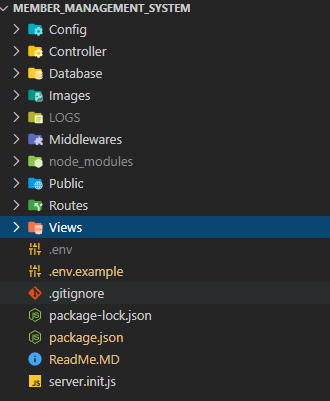
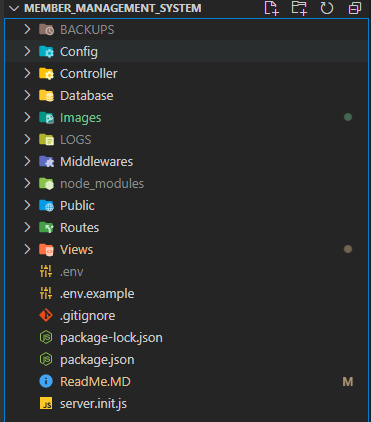
Updated Readme

Changed region(s): [[0.0, 0.0, 1.0, 1.0], [0.7879, 0.0, 0.9091, 0.0599], [0.697, 0.0, 0.7576, 0.0599]]

diff --git a/ReadMe.MD b/ReadMe.MD
@@ -224,6 +224,7 @@ Lets follow the clients approach to get the resources.
 1. Every Execuated Query Returns 2 response. i.e `Result or error` Result are manupulated as per requirement where as errors are logged on `Error.log` file using [`nodefslogger` module](https://www.npmjs.com/package/nodefslogger) which is also set as dependency on `Http.js`.
 
 These were the basic workflow how project works. All the Logs are maintained under [`LOGS`] logs directory which is generated when server needs to maintain log.
+And all the [database backups](#Database-Backup) generated automatically and manually are stored under [`BACKUPS`] directory.  
 
 ## __Some Extra Features__
 There are some extra fatures which will only be visible on certain circumstances.
@@ -249,6 +250,69 @@ __Result__
 1. If you want change root log directory then set `LOG_DIR = LOGS` flag to any directory name you desire.
 1. If you want to change pagination limit then simply change `SELECT_LIMIT = 10` flag value to amount of data you want to fetch while using pagination.
 
-## __Todo__
-1. Create Techinical and User Documentation
-1. Add Monitoring functionality as well
+## __Setting Email__
+You can set Mail Server easily with minimal configuration
+You can observe this block on your `.env` file if you followed [__Setup__](#Setup) properly.
+```
+# ------------------------------
+# Node Mailer Configuration Starts
+# ------------------------------
+    MAILER_HOST = smtp.mailtrap.io
+    MAILER_PORT = 2525
+    MAILER_USER = 553582324dac8f
+    MAILER_PASSWORD = b77dfe9eca847f
+    DBA_EMAILS = "dibeshrsubedi@gmail.com"
+# Node Mailer Configuration Starts
+```
+So, 
+- `MAILER_HOST` Defines the host used for mail service.
+- `MAILER_PORT` Defines the port used for mail service.
+- `MAILER_USER` is the email address from which email is being sent.
+- `MAILER_PASSWORD` is the password of email address.
+- `DBA_EMAILS` will be used to send error mails to DBA. You can add multiple mails using "__comma__" sign after every valid email.
+
+
+## __Database Backup__
+There are two ways of database backup.
+1. Automatic 
+1. Manual
+
+### __Automatic Backup__
+Backing up Database Automatically needs a littel onetime configuration an all th eprocess would be execuating at it's owne.
+You can observe this block on your `.env` file if you followed [__Setup__](#Setup) properly.
+```
+# ------------------------------
+#  MySql Backup and Restore Configuration Starts
+# ------------------------------
+    DUMP_DIRECTORY = BACKUPS
+    COMPRESS_FILE = true
+    BACKUP_SCHEDULE_HOUR = 16 
+    BACKUP_SCHEDULE_MINUTE = 30
+    BACKUP_SCHEDULE_SECONDS = 05
+#  MySql Backup and Restore Configuration Ends
+```
+So, 
+- `DUMP_DIRECTORY` Defines the directory where the backup files should be stored.
+- `COMPRESS_FILE` Lets you to compress the backup file as save the file with `.sql.gz` instade of `.sql` reducing the size of the backup
+- `BACKUP_SCHEDULE_HOUR` Lets you to repeate the backup at defined time hour every day. Set the values between `0-23`.
+- `BACKUP_SCHEDULE_MINUTE` Lets you to repeate the backup at defined time minute every day. Set the values between `0-59`.
+- `BACKUP_SCHEDULE_SECONDS` Lets you to repeate the backup at defined time seconds every day. Set the values between `0-59`.
+
+Another Important Factor for automatic backup is mailing address. Administrators will receive emails when automatic server fails in backup.
+Read [Setting Email](#Setting-Email) section if you have any confusion about email configuartion. 
+
+### __Manual Backup__
+So to have manual backup access you must have `Backup permission` and you will be propmt with backup facility on your dashboard.
+Just click the `Backup Database` button and your database backup would be stored on the backup directory. The picture below shows the backup view in dashboard.
+<img src="./Images/Manual Backup Function.png">
+
+## __Setting Server Port__
+If you want to change the server port then simply open `.env` file and update the fillowing section.
+```
+# ------------------------------
+#  Server Configuration Starts
+# ------------------------------
+    PORT = 9876
+#  Server Configuration Ends
+```
+Update the `PORT` value as your desire if dont want to serve the project at `9876` port.
